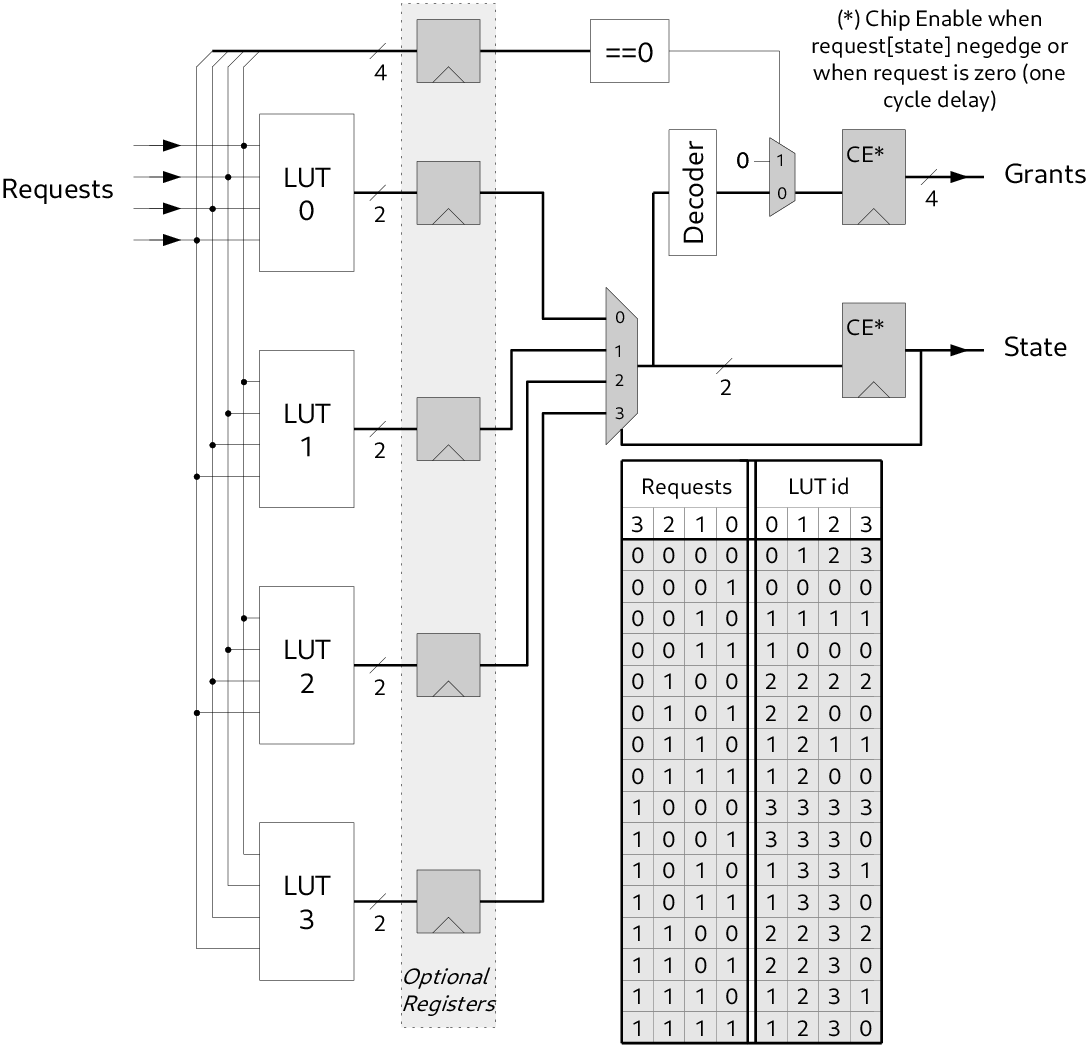
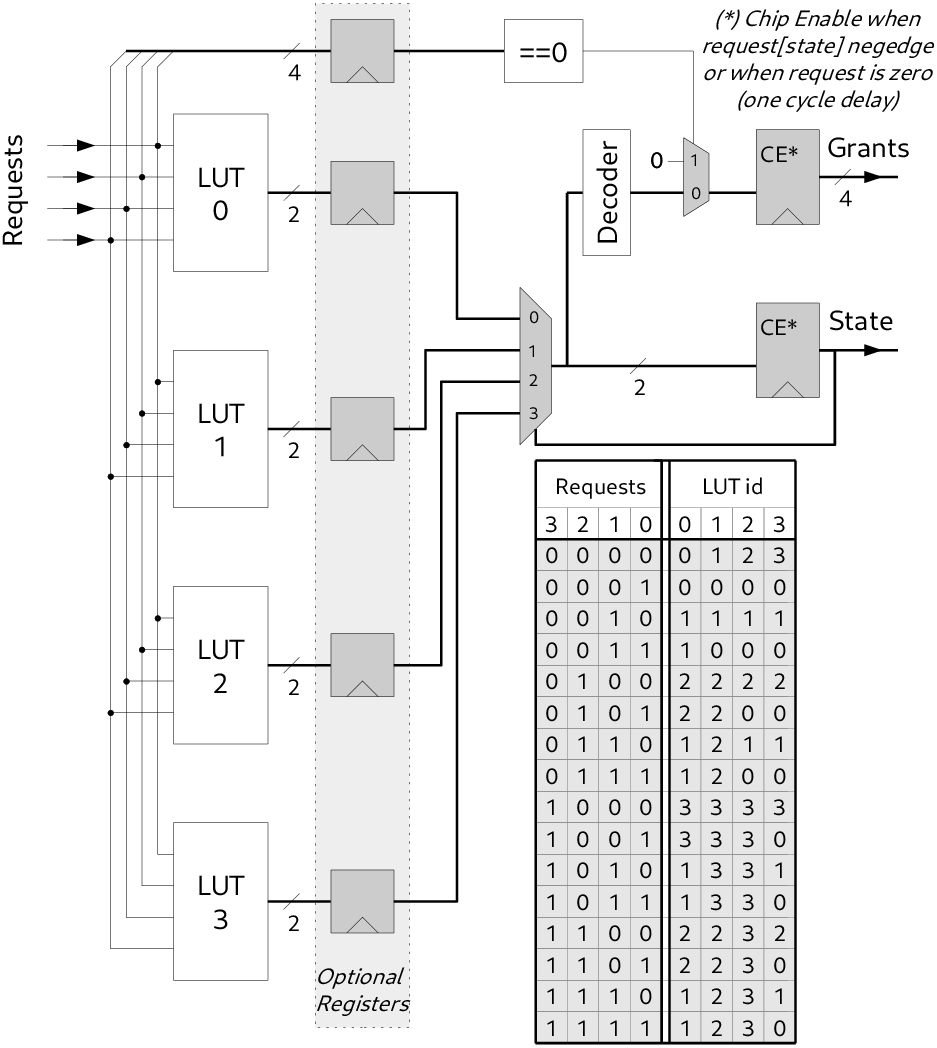
fix(paper): redesign link-utilization tables and sharpen evaluation framing
- Replace Hop-k column layout with explicit (r,c)→(r',c') link rows in
  tab:links and tab:links-llama, matching the style of tab:links4m
- Drop the Role column from tab:links4m; body text already explains the
  66.6%/33.3% split
- Add multirow package to support grouped table rows
- Add sentence connecting zero cross-boundary traffic to source routing as
  the enabling mechanism (no runtime coordination needed)
- Reframe introduction contribution bullet to highlight link-disjoint
  quadrant isolation rather than the expected 5× speedup number

diff --git a/hw/network/hynoc/doc/paper/sections/evaluation.tex b/hw/network/hynoc/doc/paper/sections/evaluation.tex
@@ -201,19 +201,31 @@ port first, concentrating load on the East-bound links of row~0.
 \centering
 \footnotesize
 \setlength{\tabcolsep}{4pt}
-\caption{Link utilization (\%) by direction (dual-clock, 391 cycles).
-         Seg.\,k: $k$-th link from master $(0,0)$.}
+\caption{Link utilization (\%) by directed link (dual-clock, 391~cycles).
+         Each row names one router-to-router link.
+         Links with $<$0.5\% utilization omitted; overall average: 3.3\%.}
 \label{tab:links}
-\begin{tabular}{@{}lrrr@{}}
+\begin{tabular}{@{}llr@{}}
 \toprule
-Direction & Seg.\,1 & Seg.\,2 & Seg.\,3 \\
+Direction & Link & Util\,(\%) \\
 \midrule
-$\to$East, row\,0  & 30.7 & 20.5 & 10.2 \\
-$\to$West, row\,0  &  2.3 &  1.5 &  0.8 \\
-$\to$South, col\,0 &  7.7 &  5.1 &  2.6 \\
-$\to$North, col\,0 &  9.2 & \multicolumn{2}{c@{}}{---} \\
-\midrule
-\multicolumn{4}{@{}l}{\textbf{Overall average: 3.3\%}} \\
+\multirow{3}{*}{$\to$East, row\,0}
+  & $(0,0)\!\to\!(0,1)$ & 30.7 \\
+  & $(0,1)\!\to\!(0,2)$ & 20.5 \\
+  & $(0,2)\!\to\!(0,3)$ & 10.2 \\
+\cmidrule(l){1-3}
+\multirow{3}{*}{$\to$South, col\,0}
+  & $(0,0)\!\to\!(1,0)$ &  7.7 \\
+  & $(1,0)\!\to\!(2,0)$ &  5.1 \\
+  & $(2,0)\!\to\!(3,0)$ &  2.6 \\
+\cmidrule(l){1-3}
+$\to$North, col\,0
+  & $(1,0)\!\to\!(0,0)$ &  9.2 \\
+\cmidrule(l){1-3}
+\multirow{3}{*}{$\to$West, row\,0}
+  & $(0,1)\!\to\!(0,0)$ &  2.3 \\
+  & $(0,2)\!\to\!(0,1)$ &  1.5 \\
+  & $(0,3)\!\to\!(0,2)$ &  0.8 \\
 \bottomrule
 \end{tabular}
 \end{table}
@@ -270,10 +282,10 @@ reference.
 (dual-clock FIFO, \texttt{SINGLE\_CLOCK\_ROUTER=0})
 with the master's single egress port sustaining near-100\% injection throughout.
 Link utilization (Table~\ref{tab:links-llama}) shows the consequence of this
-sustained injection: the first East-bound segment of row~0 reaches 79.9\%,
-carrying packets bound for all 12~workers that require at least one East hop.
-Utilization drops in proportion to the number of workers remaining on each
-subsequent segment.  South-bound links absorb $\tfrac{1}{4}$ of the total
+sustained injection: link $(0,0)\!\to\!(0,1)$ reaches 79.9\%,
+carrying packets bound for all 12~workers that need at least one East hop.
+Utilization falls in proportion to the number of remaining destinations on
+each successive link.  South-bound links absorb $\tfrac{1}{4}$ of the total
 traffic each.  Return-path links (West and North) are negligible at $<$0.1\%.
 The overall average of \textbf{6.7\%} reflects the single-port injection
 bottleneck: 47~of 48~directed links are underutilised while one port
@@ -287,21 +299,23 @@ configurations use the same clock setting.
 \centering
 \footnotesize
 \setlength{\tabcolsep}{4pt}
-\caption{Link utilization (\%) by direction, LLaMA~3~8B single-master run
-         (43\,102\,246~cycles).  Seg.\,$k$: $k$-th segment from master $(0,0)$.
-         Return-path links ($<$0.1\%) omitted.}
+\caption{Link utilization (\%) by directed link, LLaMA~3~8B single-master run
+         (43\,102\,246~cycles).  All four South columns are symmetric.
+         Return-path links ($<$0.1\%) omitted; overall average: 6.7\%.}
 \label{tab:links-llama}
-\begin{tabular}{@{}lrrr@{}}
+\begin{tabular}{@{}llr@{}}
 \toprule
-Direction & Seg.\,1 & Seg.\,2 & Seg.\,3 \\
+Direction & Link & Util\,(\%) \\
 \midrule
-$\to$East, row\,0  & 79.9 & 53.2 & 26.6 \\
-$\to$South, col\,0 & 20.0 & 13.3 &  6.7 \\
-$\to$South, col\,1 & 20.0 & 13.3 &  6.7 \\
-$\to$South, col\,2 & 20.0 & 13.3 &  6.7 \\
-$\to$South, col\,3 & 20.0 & 13.3 &  6.7 \\
-\midrule
-\multicolumn{4}{@{}l}{\textbf{Overall average: 6.7\%}} \\
+\multirow{3}{*}{$\to$East, row\,0}
+  & $(0,0)\!\to\!(0,1)$ & 79.9 \\
+  & $(0,1)\!\to\!(0,2)$ & 53.2 \\
+  & $(0,2)\!\to\!(0,3)$ & 26.6 \\
+\cmidrule(l){1-3}
+\multirow{3}{*}{$\to$South, all cols}
+  & $(0,k)\!\to\!(1,k)$, $k=0\text{--}3$ & 20.0 \\
+  & $(1,k)\!\to\!(2,k)$, $k=0\text{--}3$ & 13.3 \\
+  & $(2,k)\!\to\!(3,k)$, $k=0\text{--}3$ &  6.7 \\
 \bottomrule
 \end{tabular}
 \end{table}
@@ -445,7 +459,10 @@ port, injection stalls are shorter.
 
 Table~\ref{tab:links4m} reports the utilization pattern.  The quadrant
 isolation property is confirmed quantitatively: every link crossing either
-mesh midpoint registers exactly 0\%.  Within each quadrant, the first East
+mesh midpoint registers exactly 0\%.  This zero-overhead isolation is a
+direct consequence of source routing: routes are computed statically and
+encoded entirely in the packet header, so no router-internal mechanism is
+needed to enforce quadrant boundaries at runtime.  Within each quadrant, the first East
 or West hop from the corner master reaches 66.6\% because two of the three
 forward routes share it (the direct worker and the diagonal worker); each
 South or North second-hop segment carries one route at 33.3\%.  By symmetry
@@ -461,21 +478,21 @@ injection from four ports and correspondingly more uniform mesh loading.
          (8\,620\,484~cycles).  By symmetry all four quadrants are
          identical; cross-boundary links are exactly 0\%.}
 \label{tab:links4m}
-\begin{tabular}{@{}lll r@{}}
+\begin{tabular}{@{}llr@{}}
 \toprule
-Direction & Segment & Role & Util\,(\%) \\
+Direction & Link & Util\,(\%) \\
 \midrule
-$\to$East, row\,0 & $(0,0)\to(0,1)$ & 2/3 fwd.\ routes from $M_0$ & 66.6 \\
-$\to$West, row\,0 & $(0,3)\to(0,2)$ & 2/3 fwd.\ routes from $M_1$ & 66.6 \\
-$\to$East, row\,3 & $(3,0)\to(3,1)$ & 2/3 fwd.\ routes from $M_2$ & 66.6 \\
-$\to$West, row\,3 & $(3,3)\to(3,2)$ & 2/3 fwd.\ routes from $M_3$ & 66.6 \\
-$\to$South, col\,0 & $(0,0)\to(1,0)$ & direct South worker of $M_0$ & 33.3 \\
-$\to$South, col\,1 & $(0,1)\to(1,1)$ & diagonal worker of $M_0$     & 33.3 \\
-$\to$North, col\,0 & $(3,0)\to(2,0)$ & direct North worker of $M_2$ & 33.3 \\
-$\to$North, col\,1 & $(3,1)\to(2,1)$ & diagonal worker of $M_2$     & 33.3 \\
-Cross-boundary & (any) & --- &  0.0 \\
+$\to$East, row\,0  & $(0,0)\!\to\!(0,1)$ & 66.6 \\
+$\to$West, row\,0  & $(0,3)\!\to\!(0,2)$ & 66.6 \\
+$\to$East, row\,3  & $(3,0)\!\to\!(3,1)$ & 66.6 \\
+$\to$West, row\,3  & $(3,3)\!\to\!(3,2)$ & 66.6 \\
+$\to$South, col\,0 & $(0,0)\!\to\!(1,0)$ & 33.3 \\
+$\to$South, col\,1 & $(0,1)\!\to\!(1,1)$ & 33.3 \\
+$\to$North, col\,0 & $(3,0)\!\to\!(2,0)$ & 33.3 \\
+$\to$North, col\,1 & $(3,1)\!\to\!(2,1)$ & 33.3 \\
+Cross-boundary     & (any)               &  0.0 \\
 \midrule
-\multicolumn{3}{@{}l}{\textbf{Overall average}} & \textbf{11.1} \\
+\multicolumn{2}{@{}l}{\textbf{Overall average}} & \textbf{11.1} \\
 \bottomrule
 \end{tabular}
 \end{table}

diff --git a/hw/network/hynoc/doc/paper/sections/introduction.tex b/hw/network/hynoc/doc/paper/sections/introduction.tex
@@ -41,8 +41,8 @@ The contributions of this paper are:
         source-to-source elaboration of advanced RTL constructs and faster
         simulation;
   \item Verilator co-simulation results validating the analytical latency model
-        and benchmarking a LLaMA~3~8B-scale distributed GeMV, demonstrating a
-        $5\times$ throughput gain from a four-master quadrant configuration.
+        and demonstrating link-disjoint quadrant isolation under a
+        LLaMA~3~8B-scale distributed GeMV workload.
 \end{itemize}
 
 The remainder of the paper is organized as follows.

diff --git a/hw/network/hynoc/doc/paper/main.tex b/hw/network/hynoc/doc/paper/main.tex
@@ -9,6 +9,7 @@
 \usepackage{textcomp}
 \usepackage{xcolor}
 \usepackage{booktabs}
+\usepackage{multirow}
 \usepackage{bytefield}
 \usepackage{xcolor}
 \usepackage{hyperref}